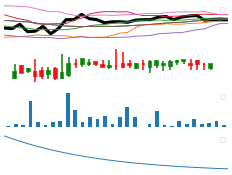
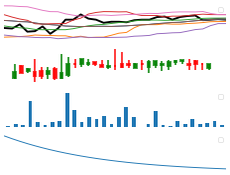
Added manual resizing to every image into 230 x 175

diff --git a/ChartObjects/Charting.py b/ChartObjects/Charting.py
@@ -4,6 +4,7 @@ from matplotlib.path import Path
 
 import pandas as pd
 from itertools import compress
+from PIL import Image
 
 import numpy as np
 from matplotlib import colors as mcolors
@@ -228,7 +229,7 @@ class Charting:
         plt.axis('off')
 
         # Plot Price
-        self.df.plot(x=self.col_label, y=self.row_label, ax=ax0, color='black', label='_nolegend_', linewidth=5)
+        self.df.plot(x=self.col_label, y=self.row_label, ax=ax0, color='black', label='_nolegend_', linewidth=3)
 
         # Plot Technical Indicators
         if self.tech_inds:
@@ -282,6 +283,11 @@ class Charting:
 
         # low dpi and low quality
         plt.savefig(file_name, legend=False, bbox_inches='tight', dpi=45)
+
+        # Resize to 230, 175
+        with Image.open(file_name) as img:
+            img = img.resize((230, 175), Image.ANTIALIAS)
+            img.save(file_name)
 
     def label_chart(self, csv_path):
         """Show and Label the Chart. Call this method. """
